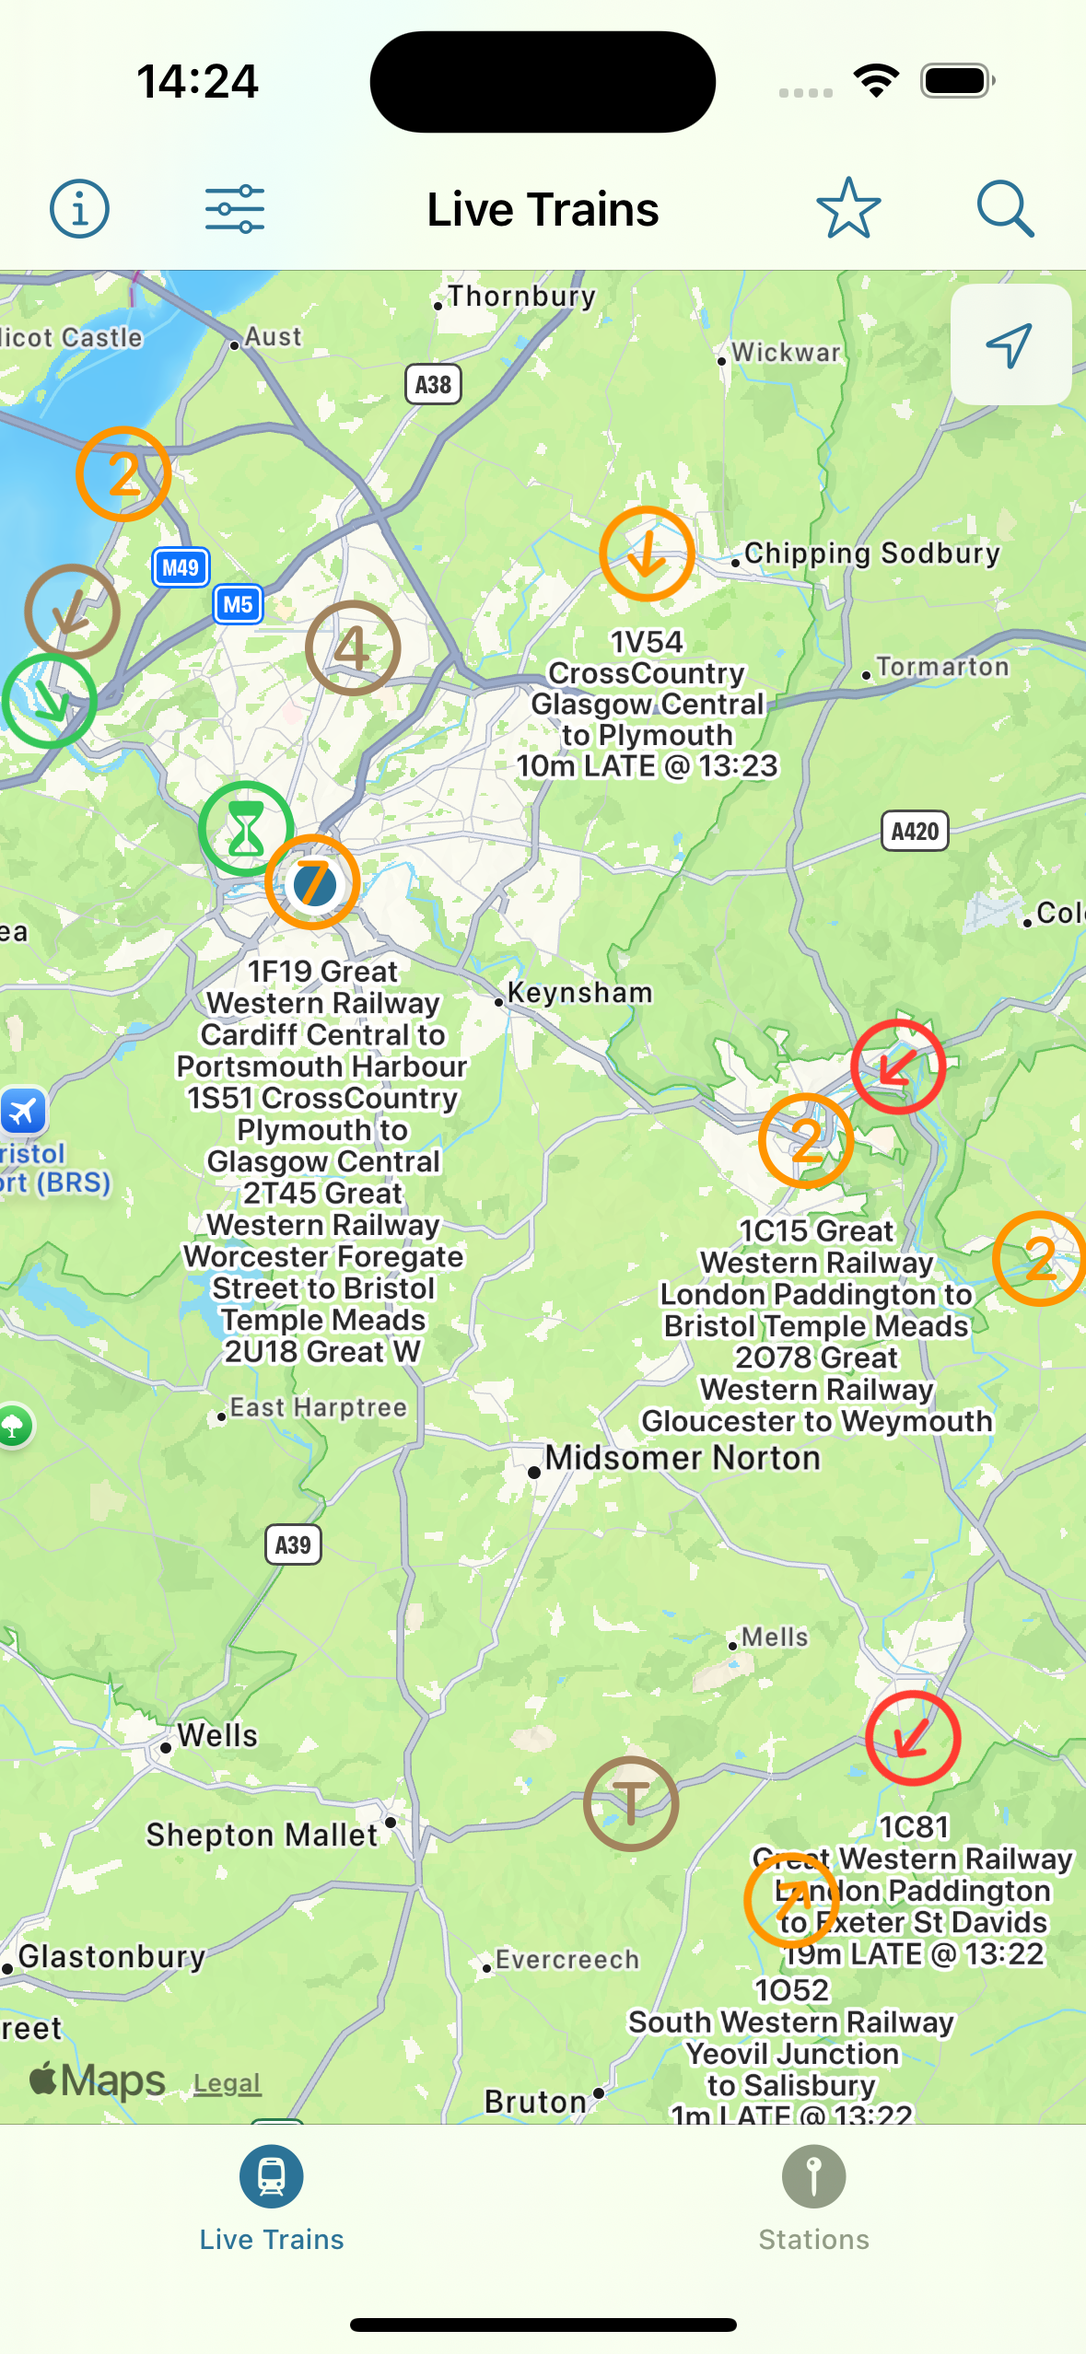
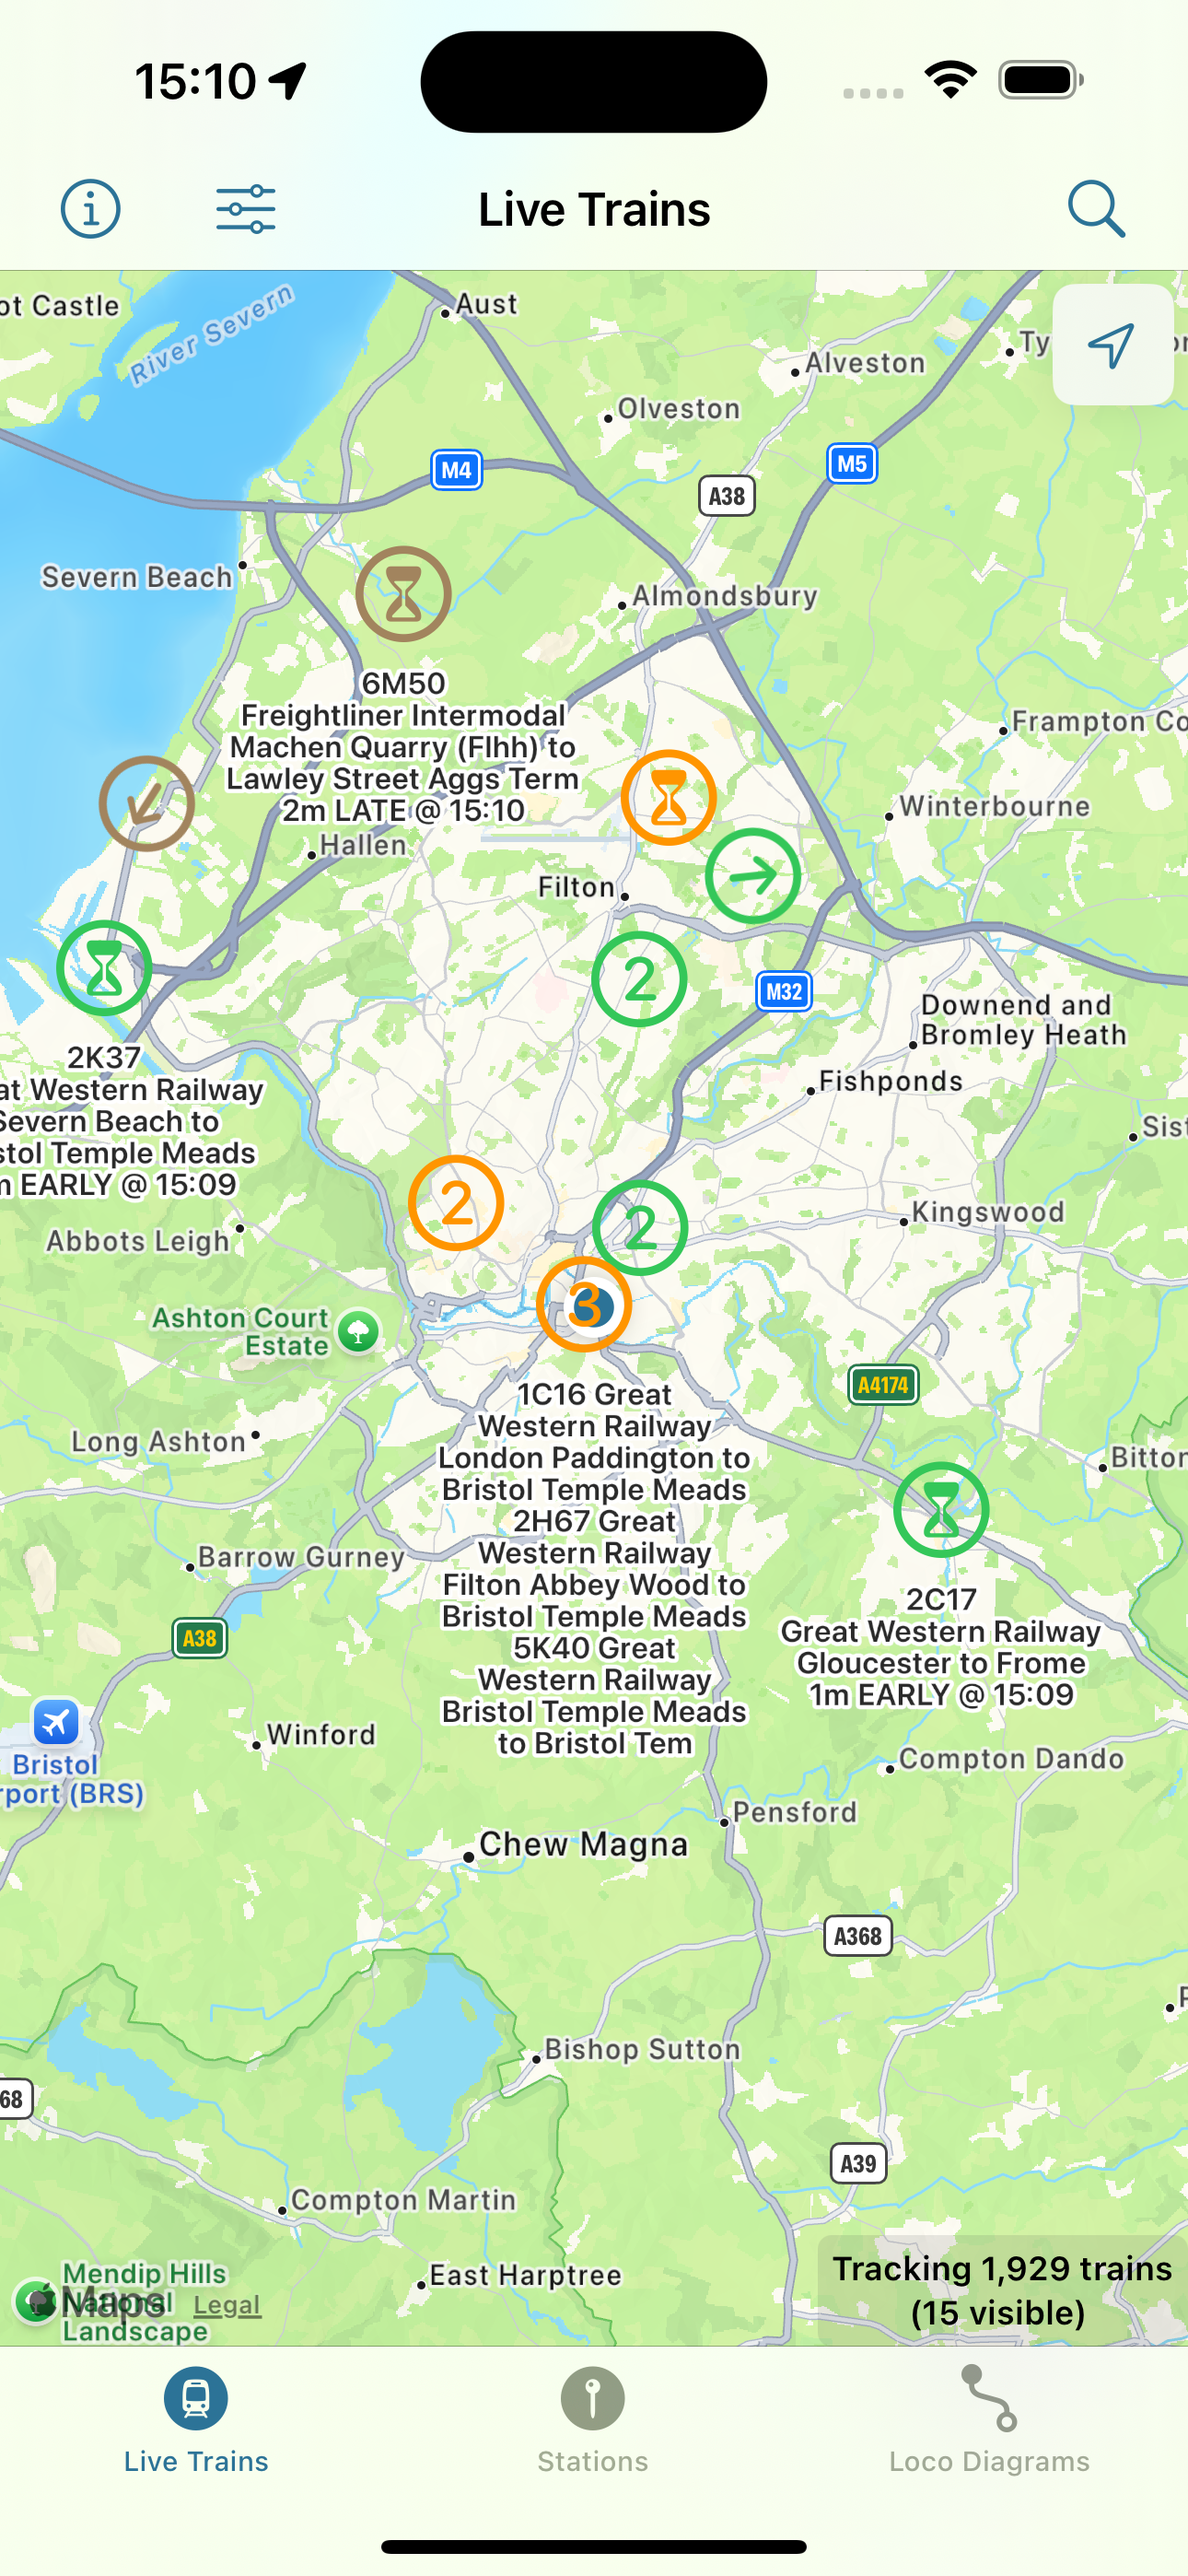
added loco diagrams

diff --git a/index.html b/index.html
@@ -581,12 +581,14 @@
                     <div class="click-hint">Click to explore →</div>
                 </div>
                 
-                <!--div class="feature-card" onclick="showFeature('about')">
+                <div class="feature-card" onclick="showFeature('diagrams')">
                     <div class="feature-icon">⚡</div>
-                    <h3>About TrainMapper</h3>
-                    <p>FAQs and in-depth information about the app.</p>
+                    <h3>Loco Diagrams</h3>
+                    <p>Looking to snap that elusive loco-hauled service? Look no further 
+                        - all today's loco services are now available in one handy screen! 
+                    </p>
                     <div class="click-hint">Click to explore →</div>
-                </div-->
+                </div>
             </div>
         </div>
     </section>
@@ -754,43 +756,19 @@
                     { name: "Interactive", description: "Tap on a service to see where it is.", image: "screenshots/movements3.png" }
                 ]
             },
-            about: {
-                title: "About TrainMapper",
-                subtitle: "FAQs, symbology, hints and tips",
+            diagrams: {
+                title: "Loco Diagrams",
+                subtitle: "Quickly find that elusive loco service!",
                 content: `
-                    <h3>About TrainMapper</h3>
-                    <p>All the guff goes here
+                    <h3>Loco Diagrams</h3>
+                    <p>Loco-hauled passenger trains are getting to be
+                        quite a rarity now. Catch them while you can...
                     </p>
-                    
-                    <h2>FAQs</h2>
-                    <ul class="faq">
-                        <li>Eh? The trains aren't moving!</li>
-                        <p>Trains are not currently equipped with GPS and do not broadcast their position. 
-                            Instead, their locations
-                            are reported as they pass trackside sensors, so you'll see trains moving on the map in "jumps" rather than continuously. 
-                            Rest assured, the live picture <i>is</i> continuously being updated and you're seeing the most up-to-date state
-                            of the network!</p>
-                        <li>Real-time impact assessment on connecting services</li>
-                        <li>Recovery progress monitoring</li>
-                        <li>Network-wide disruption visualisation</li>
-                        <li>Historical delay patterns and trends</li>
-                        <li>Passenger impact assessment</li>
-                    </ul>
-
-                    <br/>
-                    <h2>Symbology</h2>
-                    <ul>
-                        <li><img src=""
-                    </ul>
-                    <br/>
-                    <p>blah blah blah</p>
                 `,
                 screenshots: [
-                    { name: "Delay Source", description: "Identify where delays originated and track their root causes through the network.", image: "screenshots/livetrainsmap.png" },
-                    { name: "Journey Analysis", description: "See how delays accumulate throughout a train's entire journey from origin to destination.", image: "screenshots/livetrainsmap.png" },
-                    { name: "Problem Tracking", description: "Drill down into delay progression to understand exactly where and when issues developed.", image: "screenshots/livetrainsmap.png" },
-                    { name: "Network Impact", description: "Visualize how delays spread through the network affecting other trains and services.", image: "screenshots/livetrainsmap.png" },
-                    { name: "Recovery Progress", description: "Monitor how services recover from disruptions with real-time progress updates.", image: "screenshots/livetrainsmap.png" }
+                    { name: "All Loco Diagrams", description: "Find all today's loco movements in one simple screen.", image: "screenshots/locodiagrams.png" },
+                    { name: "Diagram Filters", description: "Only interested in passenger movements? No problem, filter the others out...", image: "screenshots/diagramfilters.png" },
+                    { name: "Problem Tracking", description: "Quickly see if your train is running. Tap on the train to see where it is!", image: "screenshots/passengerdiagrams.png" }
                 ]
             }
         };
